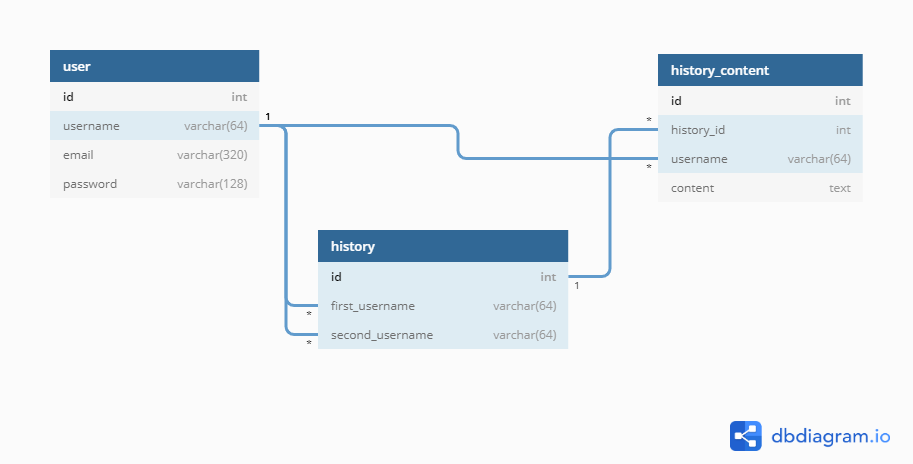
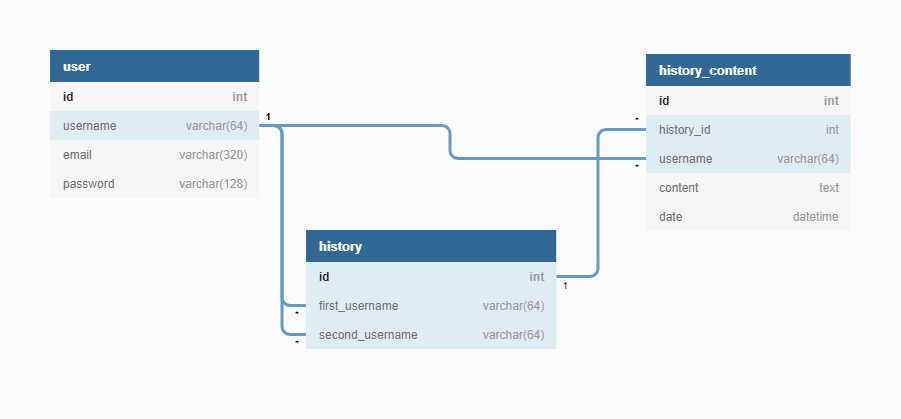
Added date field in history_content table and update schema

diff --git a/API/API_PT.py b/API/API_PT.py
@@ -4,6 +4,7 @@ from flask_marshmallow import Marshmallow
 from flask_restful import Resource, Api
 from sqlalchemy.orm import validates, Session
 from marshmallow import fields, validate
+from datetime import datetime
 
 
 app = Flask(__name__) 
@@ -178,7 +179,8 @@ class HistoryContent(db.Model):
     db.Column('id', db.Integer, primary_key=True), 
     db.Column('history_id', db.Integer, db.ForeignKey('history.id')),
     db.Column('username', db.String(64), db.ForeignKey('user.username')),
-    db.Column('content', db.Text))
+    db.Column('content', db.Text),
+    db.Column('date', db.DateTime, nullable=False, default=datetime.utcnow))
 
     def __init__(self, history_id, username, content):
         self.history_id = history_id
@@ -187,7 +189,7 @@ class HistoryContent(db.Model):
 
 class HistoryContentSchema(ma.Schema):
     class Meta:
-        fields = ('history_id', 'username', 'content')
+        fields = ('history_id', 'username', 'content', 'date')
 
 historyContent_schema = HistoryContentSchema() 
 historiesContent_schema = HistoryContentSchema(many=True)
